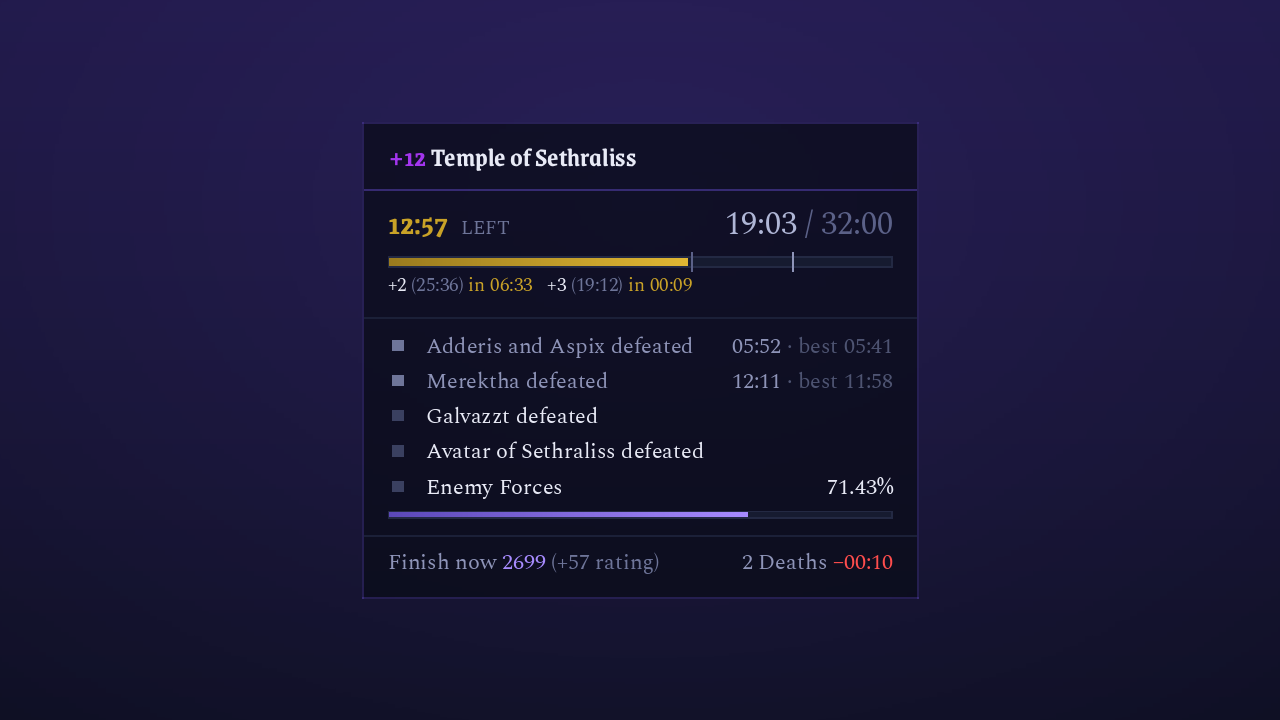
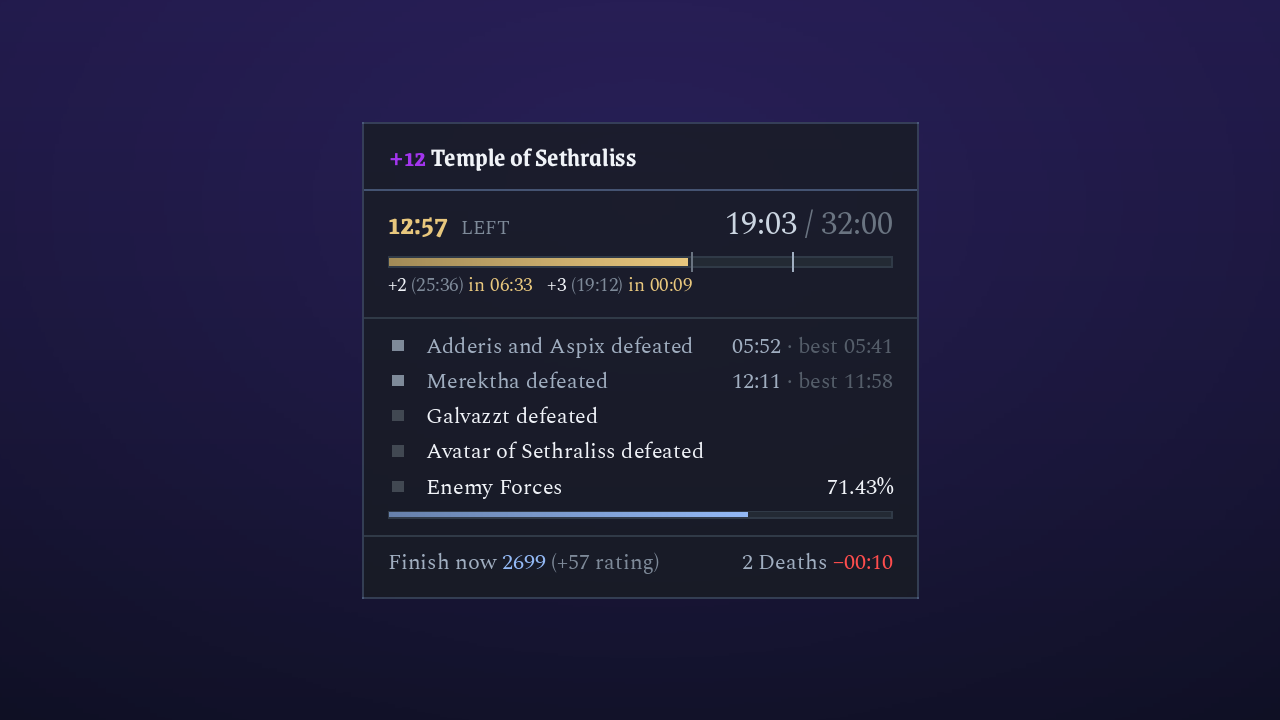
Raidex Keys addon 0.7.0, build 243

diff --git a/CHANGELOG.md b/CHANGELOG.md
@@ -3,6 +3,25 @@
 What changed in each release of the Raidex Keys addon. The files are on
 [GitHub releases](https://github.com/incudex/raidex-keys/releases).
 
+## 0.7.0 – 2026-09-15
+
+- The raid calendar's **guild progress is there at once**, in either client
+  language: the guild's achievements are read whole, not only those the game's
+  achievement window had shown, which left a raid at 0/8 - or without any
+  progress - until that window had been opened. Raid, bosses and difficulty
+  are matched by their ids, and the best progress known stays over a
+  `/reload`.
+- The key board's postings and sign-ups **reach the guild at once**: a
+  message over the game's throttle - which every addon shares - was dropped
+  and came only with the next comparison, up to 15 minutes later.
+- A new install starts with the **Slate** colour theme, the window's text at
+  size 12 and the timer at 80 % opacity. Settings already made stay as they
+  are; the options' Defaults button and `/rk reset` bring the new ones.
+- The window's **size moves on the grid** as well while its lower right corner
+  is dragged. "Grid when resizing" in the options switches that off.
+- A key board posting's **key level wears the theme's colour**; it stayed
+  Raidex violet in every theme.
+
 ## 0.6.0 – 2026-09-15
 
 - A **raid calendar** in the new tab *Raids*: the raids your guild enters in
